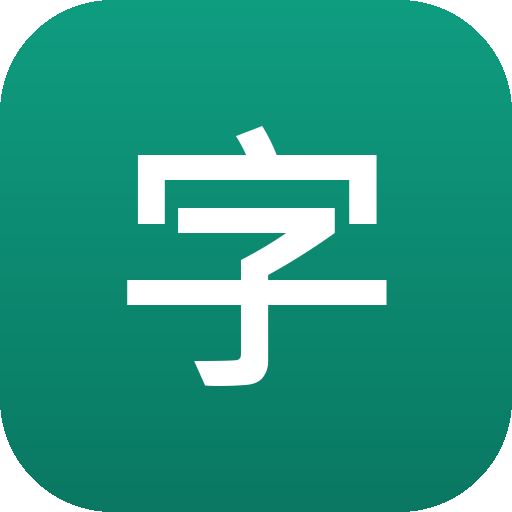
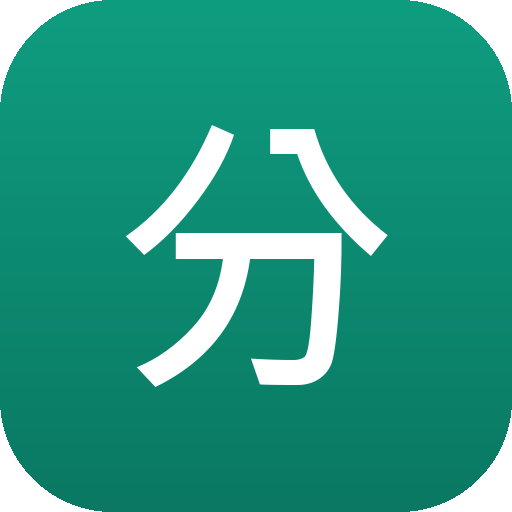
feat: App 改名「追分計劃」，圖示改為「分」
- 標題、主畫面名稱（manifest name/short_name、apple-mobile-web-app-title）、左上角標誌、README 一併更新
- 圖示產生器移進 tools/make_icons.py（改 GLYPH 重跑即可）
- repo 名稱與網址不變

Changed region(s): [[0.25, 0.25, 0.7812, 0.7812]]

diff --git a/index.html b/index.html
@@ -3,13 +3,13 @@
 <head>
 <meta charset="utf-8">
 <meta name="viewport" content="width=device-width,initial-scale=1,viewport-fit=cover,maximum-scale=1">
-<title>多益字彙旅程</title>
+<title>追分計劃</title>
 <meta name="description" content="個人多益 800+ 碎片學習：單字卡、聽力、閱讀、跟讀錄音、記憶曲線測驗、每日打卡">
 <meta name="theme-color" content="#0f9d80" media="(prefers-color-scheme:light)">
 <meta name="theme-color" content="#0e1512" media="(prefers-color-scheme:dark)">
 <meta name="apple-mobile-web-app-capable" content="yes">
 <meta name="apple-mobile-web-app-status-bar-style" content="black-translucent">
-<meta name="apple-mobile-web-app-title" content="字彙旅程">
+<meta name="apple-mobile-web-app-title" content="追分計劃">
 <meta name="mobile-web-app-capable" content="yes">
 <link rel="manifest" href="manifest.webmanifest">
 <link rel="apple-touch-icon" href="icons/apple-touch-icon.png">
@@ -410,7 +410,7 @@
     <button class="icon-btn" id="menuBtn" aria-label="教材選單">
       <svg width="18" height="18" viewBox="0 0 24 24" fill="none" stroke="currentColor" stroke-width="2.2" stroke-linecap="round"><path d="M4 7h16M4 12h16M4 17h16"/></svg>
     </button>
-    <div class="brand"><div class="brand-mark">字</div><b id="hTitle">多益字彙旅程</b></div>
+    <div class="brand"><div class="brand-mark">分</div><b id="hTitle">追分計劃</b></div>
     <button class="icon-btn" id="gearBtn" aria-label="設定">
       <svg width="18" height="18" viewBox="0 0 24 24" fill="none" stroke="currentColor" stroke-width="2"><circle cx="12" cy="12" r="3"/><path d="M19 12a7 7 0 0 0-.1-1l2-1.6-2-3.4-2.4 1a7 7 0 0 0-1.7-1L14.5 2h-4l-.4 2.6a7 7 0 0 0-1.7 1l-2.4-1-2 3.4L6 11a7 7 0 0 0 0 2l-2 1.6 2 3.4 2.4-1a7 7 0 0 0 1.7 1l.4 2.6h4l.4-2.6a7 7 0 0 0 1.7-1l2.4 1 2-3.4-2-1.6a7 7 0 0 0 .1-1z"/></svg>
     </button>

diff --git a/app.js b/app.js
@@ -1,5 +1,5 @@
 /* ============================================================================
-   多益字彙旅程 — 應用邏輯
+   追分計劃 — 應用邏輯
    ----------------------------------------------------------------------------
    擴充方式：資料全在 data.js（課程 → 單元 → 單字），加 Day 或加新教材
    只要往 DATA.courses 丟物件，介面自動長出來。這支檔案不用動。
@@ -648,7 +648,7 @@ function sbar(text, label, opt) {
 
 /* ===================== ROUTER ===================== */
 let TAB = 'home';
-const TITLES = { home: '多益字彙旅程', vocab: '單字', listen: '聽力', read: '閱讀', quiz: '測驗', checkin: '每日打卡' };
+const TITLES = { home: '追分計劃', vocab: '單字', listen: '聽力', read: '閱讀', quiz: '測驗', checkin: '每日打卡' };
 function render() {
   const m = el('main');
   SBN = 0;
@@ -661,7 +661,7 @@ function render() {
       '<div class="tiny muted" style="margin-top:8px;word-break:break-word">' + esc((err && err.message) || err) + '</div>' +
       '<button class="btn ghost sm" data-goto="home" style="margin-top:12px">回首頁</button></div>';
   }
-  el('hTitle').textContent = TITLES[TAB] || '多益字彙旅程';
+  el('hTitle').textContent = TITLES[TAB] || '追分計劃';
   document.querySelectorAll('#nav button').forEach(b => b.classList.toggle('on', b.dataset.tab === TAB));
   fillDrawer();
   bindAll();

diff --git a/sw.js b/sw.js
@@ -1,7 +1,7 @@
-/* 多益字彙旅程 — Service Worker
+/* 追分計劃 — Service Worker
    離線可用：App 殼層預先快取，音檔第一次播過之後才快取。
    改版時把 VER 加一，舊快取會自動清掉。 */
-const VER = 'tvj-v21';
+const VER = 'tvj-v22';
 const SHELL = ['./', './index.html', './data.js', './courses/daily-video.js', './courses/bbc-6min.js', './app.js', './manifest.webmanifest',
   './icons/icon-192.png', './icons/icon-512.png', './icons/apple-touch-icon.png'];
 

diff --git a/worker/src/index.js b/worker/src/index.js
@@ -1,4 +1,4 @@
-/* 多益字彙旅程 — 進度同步 Worker（選用）
+/* 追分計劃 — 進度同步 Worker（選用）
    ---------------------------------------------------------------
    只有兩個動作：
      GET  /state   帶 Authorization: Bearer <金鑰>  → 取回進度 JSON

diff --git a/tools/make_icons.py b/tools/make_icons.py
@@ -1,0 +1,55 @@
+# -*- coding: utf-8 -*-
+"""產生 PWA 圖示：圓角漸層底 + 一個字（GLYPH）。App 改名時改 GLYPH 重跑：python tools/make_icons.py"""
+from PIL import Image, ImageDraw, ImageFont
+import os
+
+OUT = os.path.join(os.path.dirname(os.path.dirname(os.path.abspath(__file__))), "icons")
+GLYPH = "分"                          # 追分計劃
+os.makedirs(OUT, exist_ok=True)
+FONT = "C:/Windows/Fonts/msjhbd.ttc"   # 微軟正黑體 Bold
+A = (15, 157, 128)    # accent
+B = (10, 120, 98)     # accent-deep
+
+
+def grad(size):
+    im = Image.new("RGB", (size, size))
+    d = ImageDraw.Draw(im)
+    for y in range(size):
+        t = y / max(1, size - 1)
+        d.line([(0, y), (size, y)],
+               fill=(int(A[0] + (B[0] - A[0]) * t),
+                     int(A[1] + (B[1] - A[1]) * t),
+                     int(A[2] + (B[2] - A[2]) * t)))
+    return im
+
+
+def glyph(im, size, scale=0.58):
+    d = ImageDraw.Draw(im)
+    f = ImageFont.truetype(FONT, int(size * scale))
+    bb = d.textbbox((0, 0), GLYPH, font=f)
+    d.text(((size - (bb[2] - bb[0])) / 2 - bb[0],
+            (size - (bb[3] - bb[1])) / 2 - bb[1]),
+           GLYPH, font=f, fill=(255, 255, 255))
+    return im
+
+
+def rounded(im, size, r_ratio=0.22):
+    mask = Image.new("L", (size, size), 0)
+    ImageDraw.Draw(mask).rounded_rectangle([0, 0, size - 1, size - 1],
+                                           radius=int(size * r_ratio), fill=255)
+    out = Image.new("RGBA", (size, size), (0, 0, 0, 0))
+    out.paste(im, (0, 0), mask)
+    return out
+
+
+for s in (192, 512):
+    rounded(glyph(grad(s), s), s).save(os.path.join(OUT, "icon-%d.png" % s))
+
+# maskable：安全區內縮，四角填滿不裁圓角
+m = glyph(grad(512), 512, scale=0.42).convert("RGBA")
+m.save(os.path.join(OUT, "icon-maskable.png"))
+
+# apple-touch-icon：iOS 自己裁圓角，要方形不透明
+glyph(grad(180), 180).convert("RGB").save(os.path.join(OUT, "apple-touch-icon.png"))
+
+print("OK ->", sorted(os.listdir(OUT)))

diff --git a/README.md b/README.md
@@ -1,4 +1,4 @@
-# 多益字彙旅程
+# 追分計劃
 
 Mischa 的個人多益 800+ 備考 App。純靜態網頁，手機加到主畫面就像原生 App，可離線用。
 
